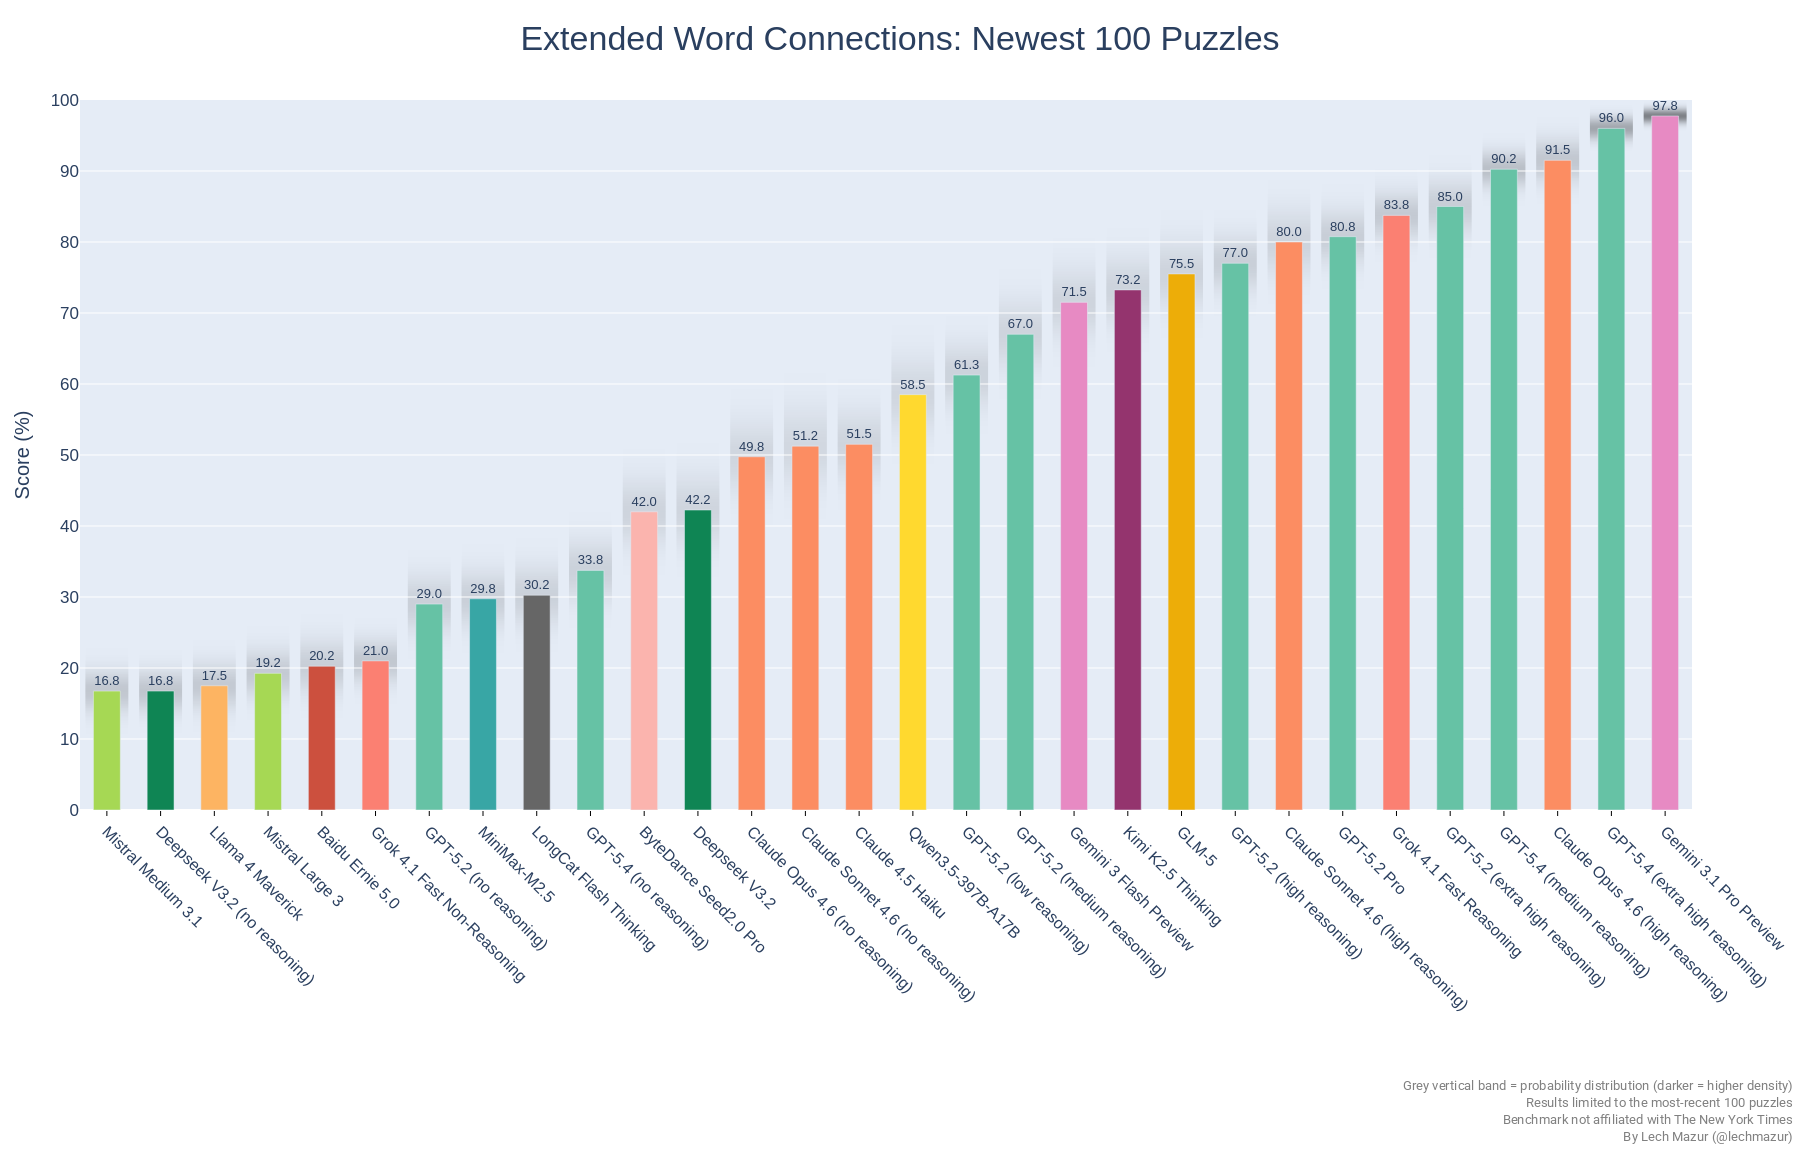
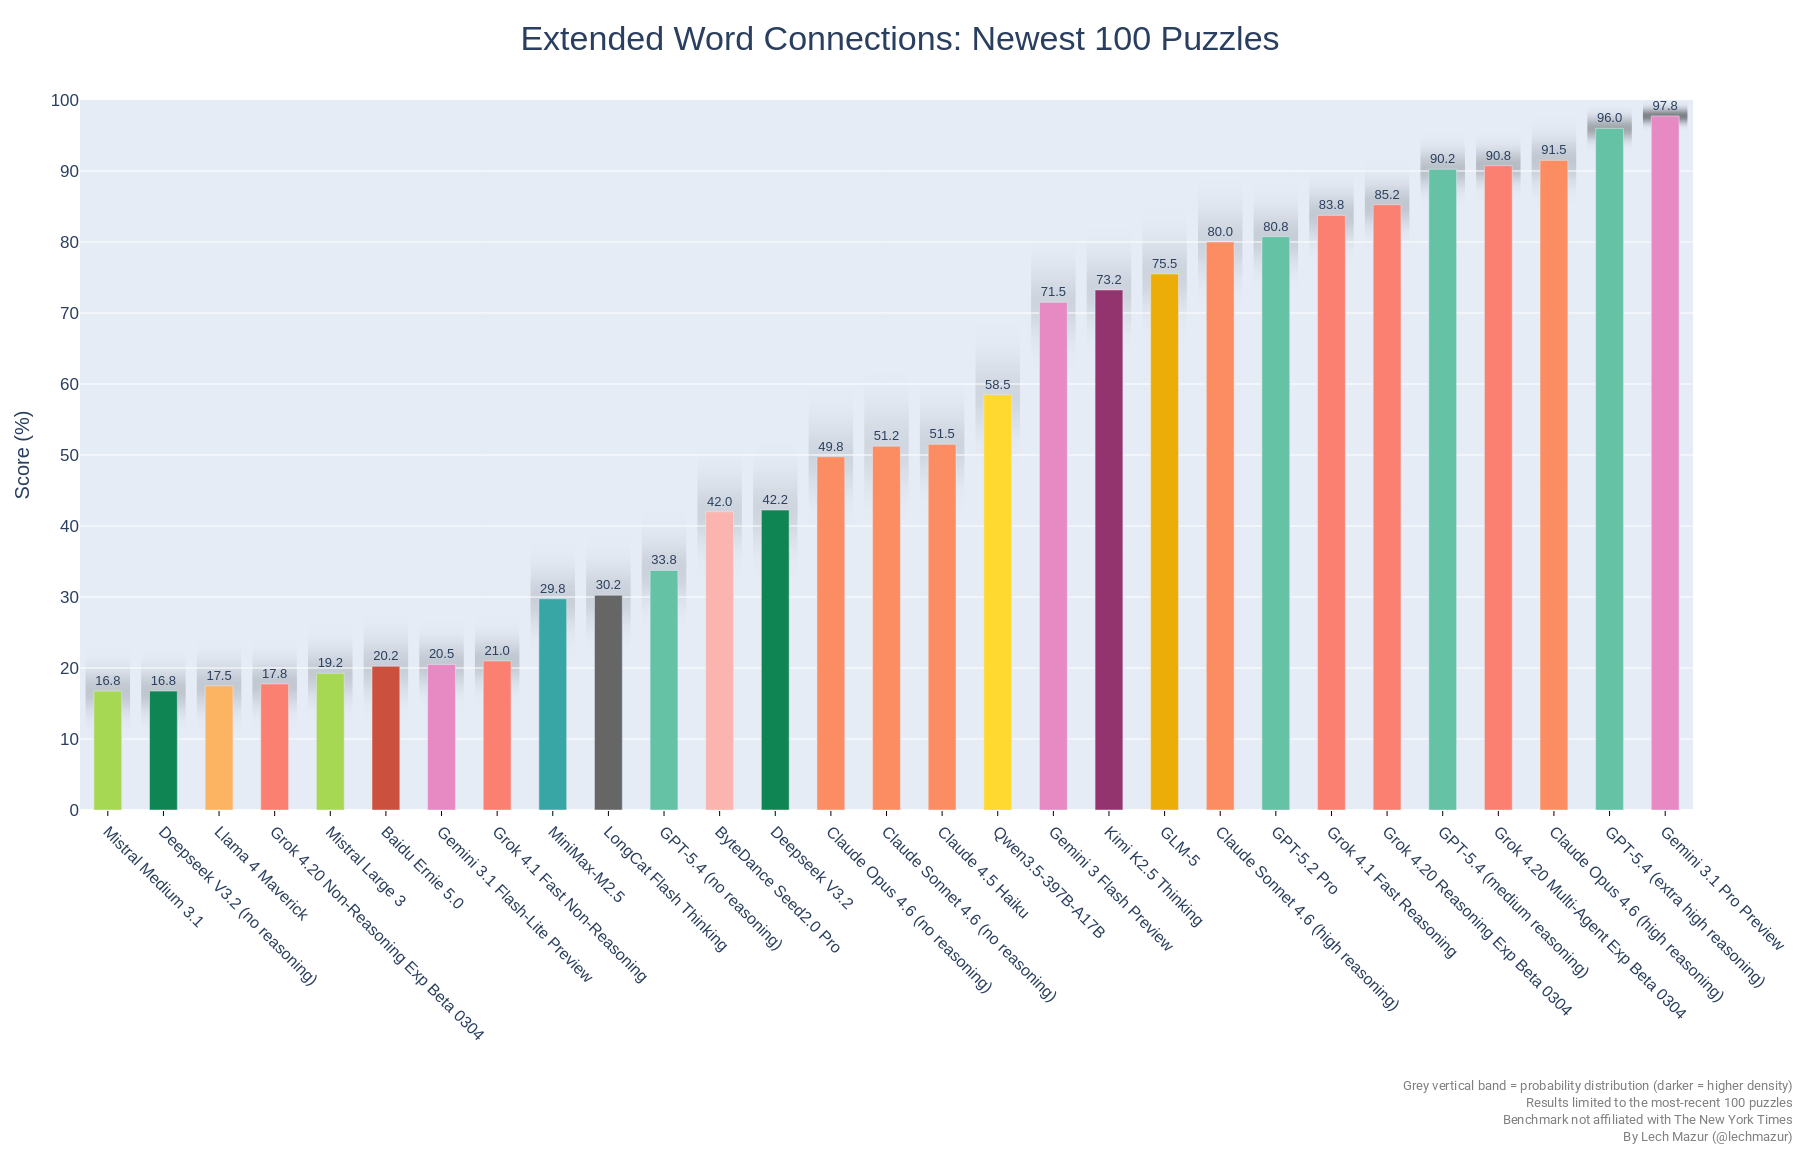
Grok 4.20 Beta Experminatal, Gemini 3.1 Flash-Lite Preview added

Changed region(s): [[0.0622, 0.0913, 0.9956, 0.8826], [0.2178, 0.8217, 0.2489, 0.8826], [0.1556, 0.8217, 0.1867, 0.8522]]

diff --git a/README.md b/README.md
@@ -16,44 +16,48 @@ As of Feb 4, 2025, there is a new version of the benchmark. The standard NYT Con
 |2|Gemini 3 Pro Preview|96.3|940|
 |3|Claude Opus 4.6 (high reasoning)|94.7|940|
 |4|GPT-5.4 (extra high reasoning)|94.0|940|
-|5|GPT-5.4 (medium reasoning)|92.0|940|
-|6|Grok 4.1 Fast Reasoning|91.7|940|
-|7|GPT-5.2 (extra high reasoning)|88.6|940|
-|8|Gemini 3 Flash Preview|88.4|940|
-|9|GPT-5.2 Pro|85.7|940|
-|10|Claude Sonnet 4.6 (high reasoning)|85.7|940|
-|11|Claude Sonnet 4.6 Thinking 32K|82.4|940|
-|12|GLM-5|81.8|940|
-|13|Claude Opus 4.6 Thinking 16K|81.7|940|
-|14|Kimi K2.5 Thinking|78.3|940|
-|15|GPT-5.2 (high reasoning)|77.5|940|
-|16|GPT-5.2 (medium reasoning)|71.4|940|
-|17|Qwen3.5-397B-A17B|69.2|940|
-|18|GPT-5.2 (low reasoning)|66.7|940|
-|19|Claude Opus 4.5 Thinking 16K|62.6|940|
-|20|Claude Opus 4.5 (no reasoning)|60.3|940|
-|21|Claude Sonnet 4.6 Thinking 16K|57.6|940|
-|22|Claude Opus 4.6 (no reasoning)|56.7|940|
-|23|Claude Sonnet 4.6 (no reasoning)|55.2|940|
-|24|Deepseek V3.2|50.2|940|
-|25|Claude Sonnet 4.5 Thinking 16K|49.3|940|
-|26|Claude Sonnet 4.5 (no reasoning)|47.4|940|
-|27|ByteDance Seed2.0 Pro|42.1|940|
-|28|Qwen3 Max (2026-01-23)|41.8|940|
-|29|GPT-5.4 (no reasoning)|32.8|940|
-|30|LongCat Flash Thinking|31.0|940|
-|31|MiniMax-M2.5|29.6|940|
-|32|GPT-5.2 (no reasoning)|28.1|940|
-|33|MiniMax-M2|27.0|940|
-|34|Claude 4.5 Haiku|25.9|940|
-|35|Grok 4.1 Fast Non-Reasoning|25.0|940|
-|36|Qwen 3 Max Thinking|24.1|940|
-|37|MiniMax-M2.1|22.7|940|
-|38|Baidu Ernie 5.0|21.2|940|
-|39|Llama 4 Maverick|18.4|940|
-|40|Deepseek V3.2 (no reasoning)|17.8|940|
-|41|Mistral Large 3|17.2|940|
-|42|Mistral Medium 3.1|15.5|940|
+|5|Grok 4.20 Multi-Agent Exp Beta 0304|93.3|940|
+|6|GPT-5.4 (medium reasoning)|92.0|940|
+|7|Grok 4.1 Fast Reasoning|91.7|940|
+|8|Grok 4.20 Reasoning Exp Beta 0304|89.5|940|
+|9|GPT-5.2 (extra high reasoning)|88.6|940|
+|10|Gemini 3 Flash Preview|88.4|940|
+|11|GPT-5.2 Pro|85.7|940|
+|12|Claude Sonnet 4.6 (high reasoning)|85.7|940|
+|13|Claude Sonnet 4.6 Thinking 32K|82.4|940|
+|14|GLM-5|81.8|940|
+|15|Claude Opus 4.6 Thinking 16K|81.7|940|
+|16|Kimi K2.5 Thinking|78.3|940|
+|17|GPT-5.2 (high reasoning)|77.5|940|
+|18|GPT-5.2 (medium reasoning)|71.4|940|
+|19|Qwen3.5-397B-A17B|69.2|940|
+|20|GPT-5.2 (low reasoning)|66.7|940|
+|21|Claude Opus 4.5 Thinking 16K|62.6|940|
+|22|Claude Opus 4.5 (no reasoning)|60.3|940|
+|23|Claude Sonnet 4.6 Thinking 16K|57.6|940|
+|24|Claude Opus 4.6 (no reasoning)|56.7|940|
+|25|Claude Sonnet 4.6 (no reasoning)|55.2|940|
+|26|Deepseek V3.2|50.2|940|
+|27|Claude Sonnet 4.5 Thinking 16K|49.3|940|
+|28|Claude Sonnet 4.5 (no reasoning)|47.4|940|
+|29|ByteDance Seed2.0 Pro|42.1|940|
+|30|Qwen3 Max (2026-01-23)|41.8|940|
+|31|GPT-5.4 (no reasoning)|32.8|940|
+|32|LongCat Flash Thinking|31.0|940|
+|33|MiniMax-M2.5|29.6|940|
+|34|GPT-5.2 (no reasoning)|28.1|940|
+|35|MiniMax-M2|27.0|940|
+|36|Claude 4.5 Haiku|25.9|940|
+|37|Grok 4.1 Fast Non-Reasoning|25.0|940|
+|38|Qwen 3 Max Thinking|24.1|940|
+|39|MiniMax-M2.1|22.7|940|
+|40|Baidu Ernie 5.0|21.2|940|
+|41|Gemini 3.1 Flash-Lite Preview|19.7|940|
+|42|Llama 4 Maverick|18.4|940|
+|43|Deepseek V3.2 (no reasoning)|17.8|940|
+|44|Grok 4.20 Non-Reasoning Exp Beta 0304|17.6|940|
+|45|Mistral Large 3|17.2|940|
+|46|Mistral Medium 3.1|15.5|940|
 
 
 
@@ -277,6 +281,7 @@ These models are excluded from the main board because they ran fewer than 940 to
 ---
 
 ## Updates
+- Mar 6, 2026: Grok 4.20 Beta Experminatal, Gemini 3.1 Flash-Lite Preview added.
 - Mar 5, 2026: GPT-5.4 added.
 - Feb 23, 2026: GLM-5 added.
 - Feb 20, 2026: Gemini 3.1 Pro Preview, ByteDance Seed2.0 Pro, Baidu Ernie 5.0 added.
